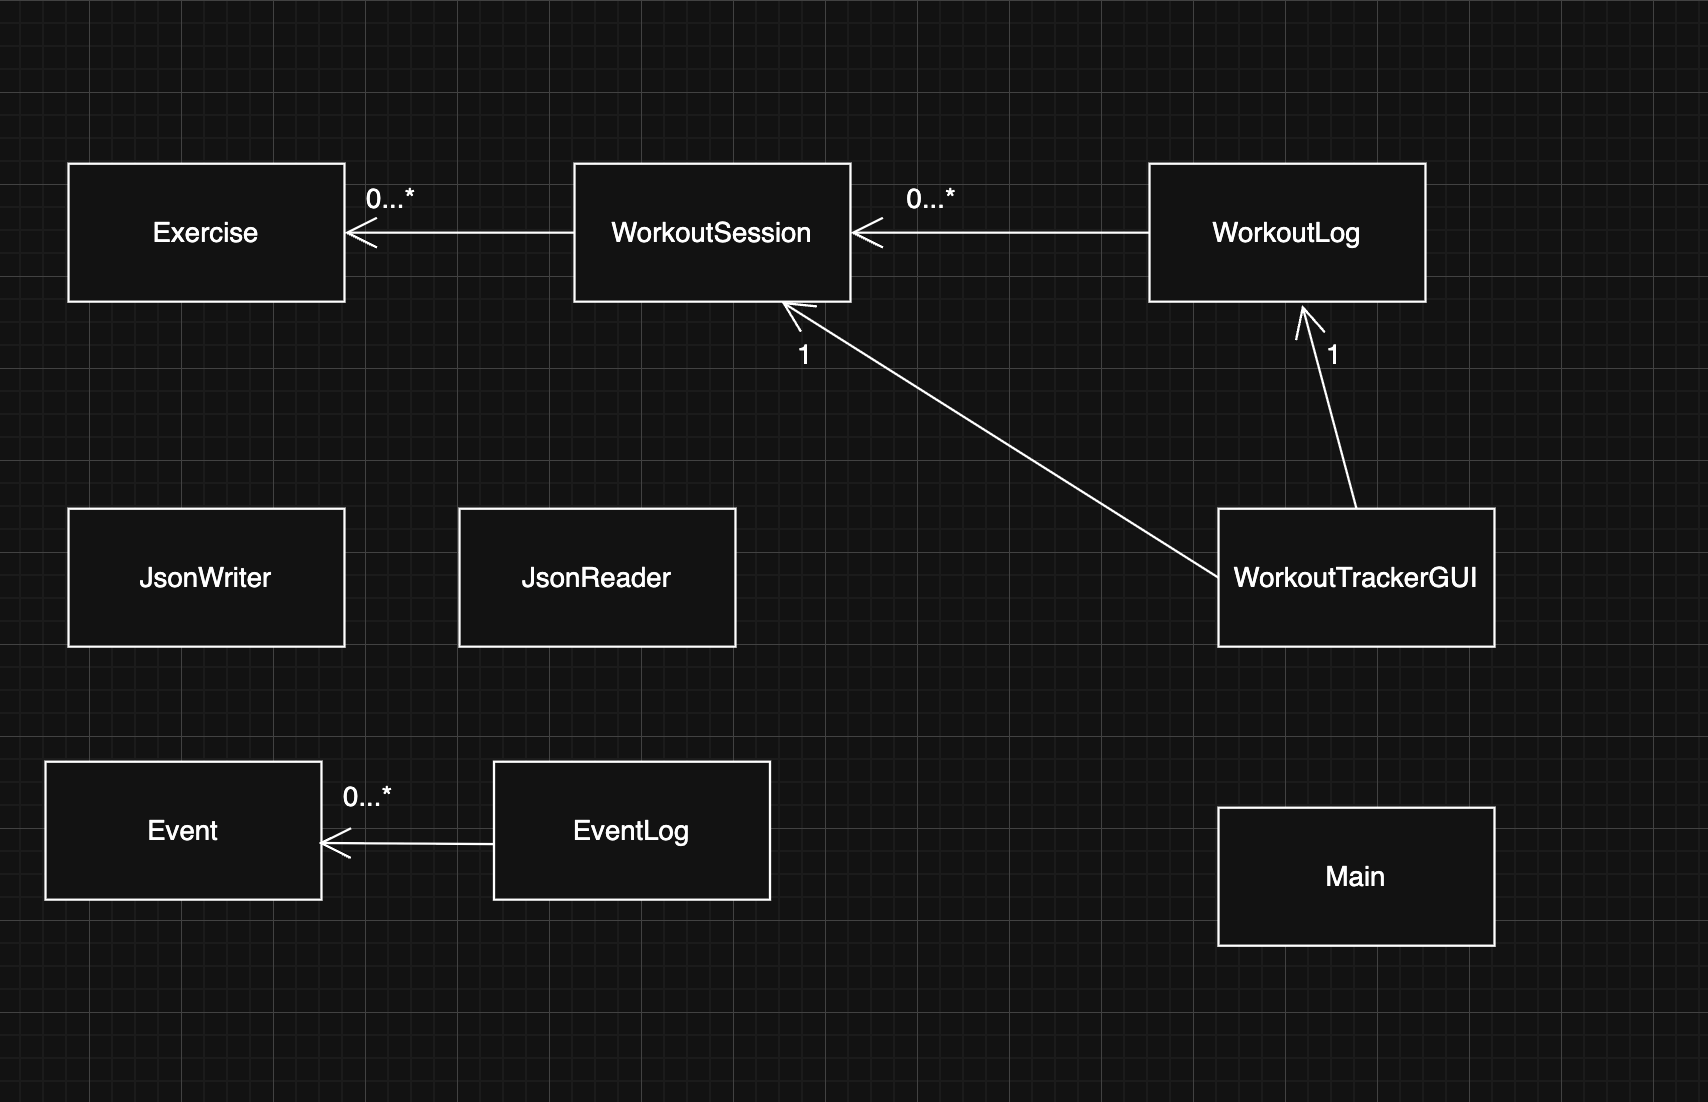
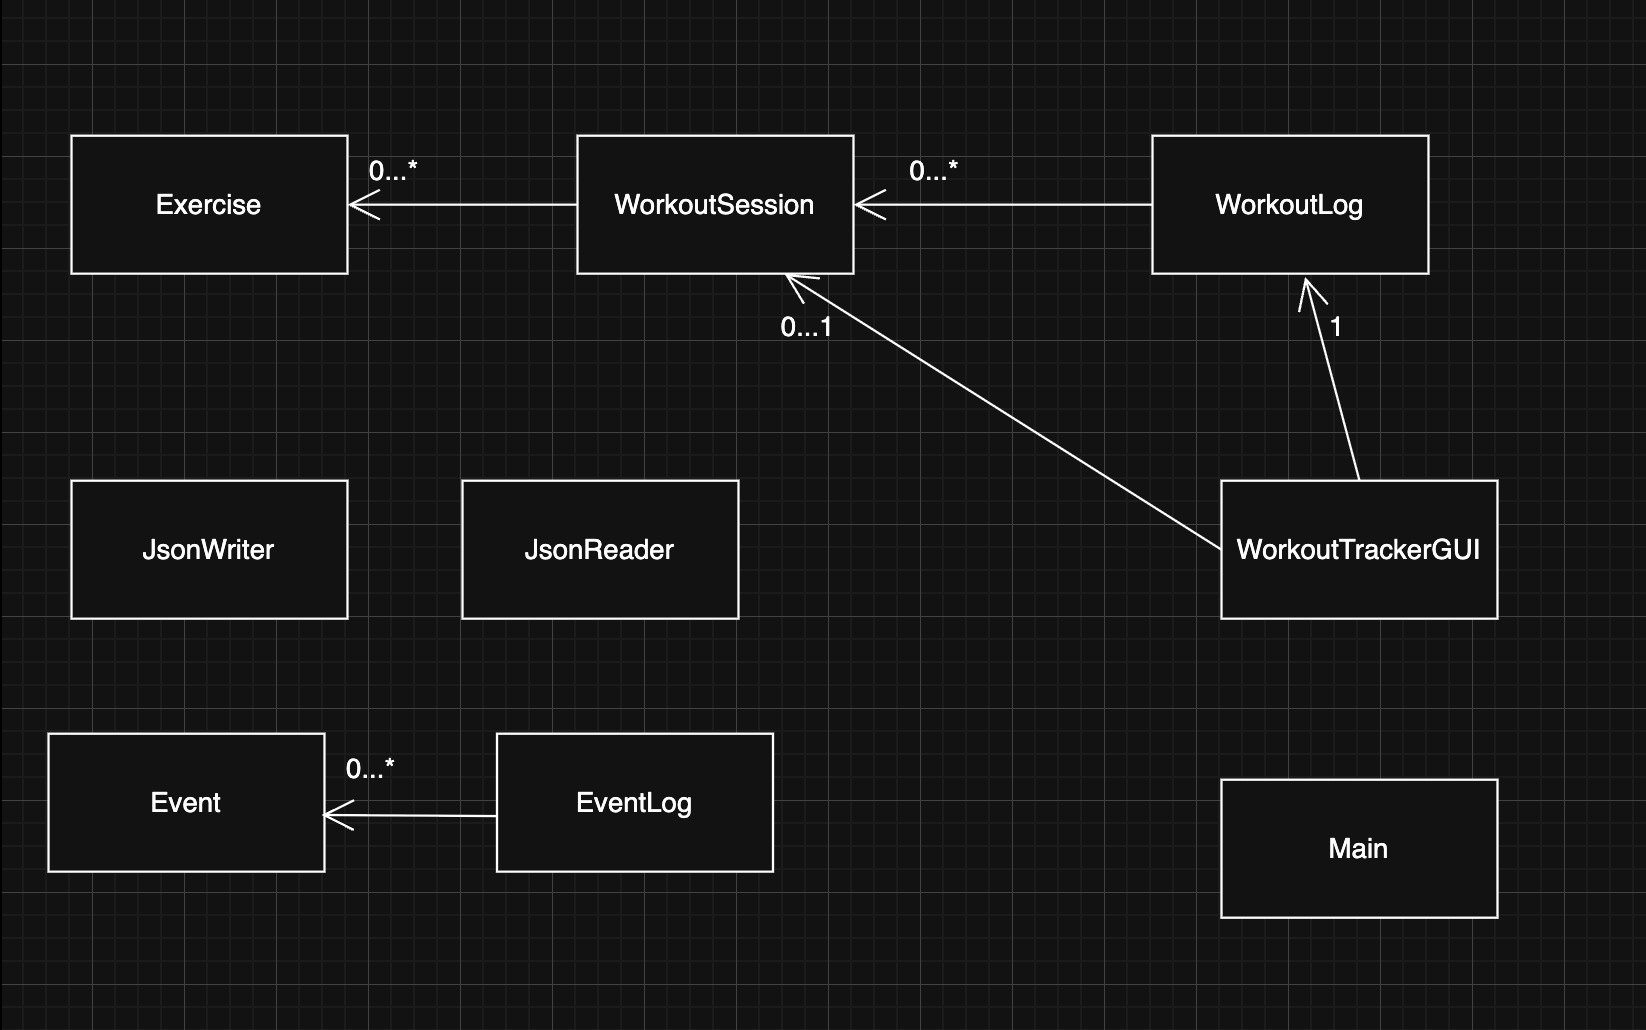
Phase 4: Task 3

diff --git a/src/test/model/EventLogTest.java b/src/test/model/EventLogTest.java
@@ -11,46 +11,49 @@ import static org.junit.jupiter.api.Assertions.assertEquals;
 import static org.junit.jupiter.api.Assertions.assertFalse;
 import static org.junit.jupiter.api.Assertions.assertTrue;
 
+// Referenced from the AlarmSystem
+// https://github.students.cs.ubc.ca/CPSC210/AlarmSystem.git
+
 /**
  * Unit tests for the EventLog class
  */
 public class EventLogTest {
-	private Event e1;
-	private Event e2;
-	private Event e3;
-	
-	@BeforeEach
-	public void loadEvents() {
-		e1 = new Event("A1");
-		e2 = new Event("A2");
-		e3 = new Event("A3");
-		EventLog el = EventLog.getInstance();
-		el.logEvent(e1);
-		el.logEvent(e2);
-		el.logEvent(e3);
-	}
-	
-	@Test
-	public void testLogEvent() {	
-		List<Event> l = new ArrayList<Event>();
-		
-		EventLog el = EventLog.getInstance();
-		for (Event next : el) {
-			l.add(next);
-		}
-		
-		assertTrue(l.contains(e1));
-		assertTrue(l.contains(e2));
-		assertTrue(l.contains(e3));
-	}
+    private Event e1;
+    private Event e2;
+    private Event e3;
 
-	@Test
-	public void testClear() {
-		EventLog el = EventLog.getInstance();
-		el.clear();
-		Iterator<Event> itr = el.iterator();
-		assertTrue(itr.hasNext());   // After log is cleared, the clear log event is added
-		assertEquals("Event log cleared.", itr.next().getDescription());
-		assertFalse(itr.hasNext());
-	}
+    @BeforeEach
+    public void loadEvents() {
+        e1 = new Event("A1");
+        e2 = new Event("A2");
+        e3 = new Event("A3");
+        EventLog el = EventLog.getInstance();
+        el.logEvent(e1);
+        el.logEvent(e2);
+        el.logEvent(e3);
+    }
+
+    @Test
+    public void testLogEvent() {
+        List<Event> l = new ArrayList<Event>();
+
+        EventLog el = EventLog.getInstance();
+        for (Event next : el) {
+            l.add(next);
+        }
+
+        assertTrue(l.contains(e1));
+        assertTrue(l.contains(e2));
+        assertTrue(l.contains(e3));
+    }
+
+    @Test
+    public void testClear() {
+        EventLog el = EventLog.getInstance();
+        el.clear();
+        Iterator<Event> itr = el.iterator();
+        assertTrue(itr.hasNext()); // After log is cleared, the clear log event is added
+        assertEquals("Event log cleared.", itr.next().getDescription());
+        assertFalse(itr.hasNext());
+    }
 }

diff --git a/src/test/model/EventTest.java b/src/test/model/EventTest.java
@@ -9,12 +9,15 @@ import java.util.Date;
 import static org.junit.jupiter.api.Assertions.assertEquals;
 import static org.junit.jupiter.api.Assertions.assertNotEquals;
 
+// Referenced from the AlarmSystem
+// https://github.students.cs.ubc.ca/CPSC210/AlarmSystem.git
+
 /**
  * Unit tests for the Event class
  */
 public class EventTest {
-    private Event e;
-    private Date d;
+    private Event event;
+    private Date date;
 
     // NOTE: these tests might fail if time at which line (2) below is executed
     // is different from time that line (1) is executed. Lines (1) and (2) must
@@ -22,19 +25,19 @@ public class EventTest {
 
     @BeforeEach
     public void runBefore() {
-        e = new Event("Sensor open at door"); // (1)
-        d = Calendar.getInstance().getTime(); // (2)
+        event = new Event("Sensor open at door"); // (1)
+        date = Calendar.getInstance().getTime(); // (2)
     }
 
     @Test
     public void testEvent() {
-        assertEquals("Sensor open at door", e.getDescription());
-        assertEquals(d, e.getDate());
+        assertEquals("Sensor open at door", event.getDescription());
+        assertEquals(date, event.getDate());
     }
 
     @Test
     public void testToString() {
-        assertEquals(d.toString() + "\n" + "Sensor open at door", e.toString());
+        assertEquals(date.toString() + "\n" + "Sensor open at door", event.toString());
     }
 
     @Test
@@ -48,13 +51,13 @@ public class EventTest {
 
     @Test
     public void testEqualsDifferentTypeOrNull() {
-        assertNotEquals(e, null);
-        assertNotEquals(e, "NotAnEvent");
+        assertNotEquals(event, null);
+        assertNotEquals(event, "NotAnEvent");
     }
 
     @Test
     public void testHashCodeConsistency() {
-        assertEquals(e.hashCode(), e.hashCode());
+        assertEquals(event.hashCode(), event.hashCode());
     }
 
 }

diff --git a/src/main/model/EventLog.java b/src/main/model/EventLog.java
@@ -4,8 +4,11 @@ import java.util.ArrayList;
 import java.util.Collection;
 import java.util.Iterator;
 
+// Referenced from the AlarmSystem
+// https://github.students.cs.ubc.ca/CPSC210/AlarmSystem.git
+
 /**
- * Represents a log of alarm system events.
+ * Represents a log of workout tracker events.
  * We use the Singleton Design Pattern to ensure that there is only
  * one EventLog in the system and that the system has global access
  * to the single instance of the EventLog.

diff --git a/src/main/model/Event.java b/src/main/model/Event.java
@@ -4,12 +4,15 @@ import java.util.Calendar;
 import java.util.Date;
 
 /**
- * Represents an alarm system event.
+ * Represents an workout tracker event.
  */
 public class Event {
     private static final int HASH_CONSTANT = 13;
     private Date dateLogged;
     private String description;
+
+    // Referenced from the AlarmSystem
+    // https://github.students.cs.ubc.ca/CPSC210/AlarmSystem.git
 
     /**
      * Creates an event with the given description
